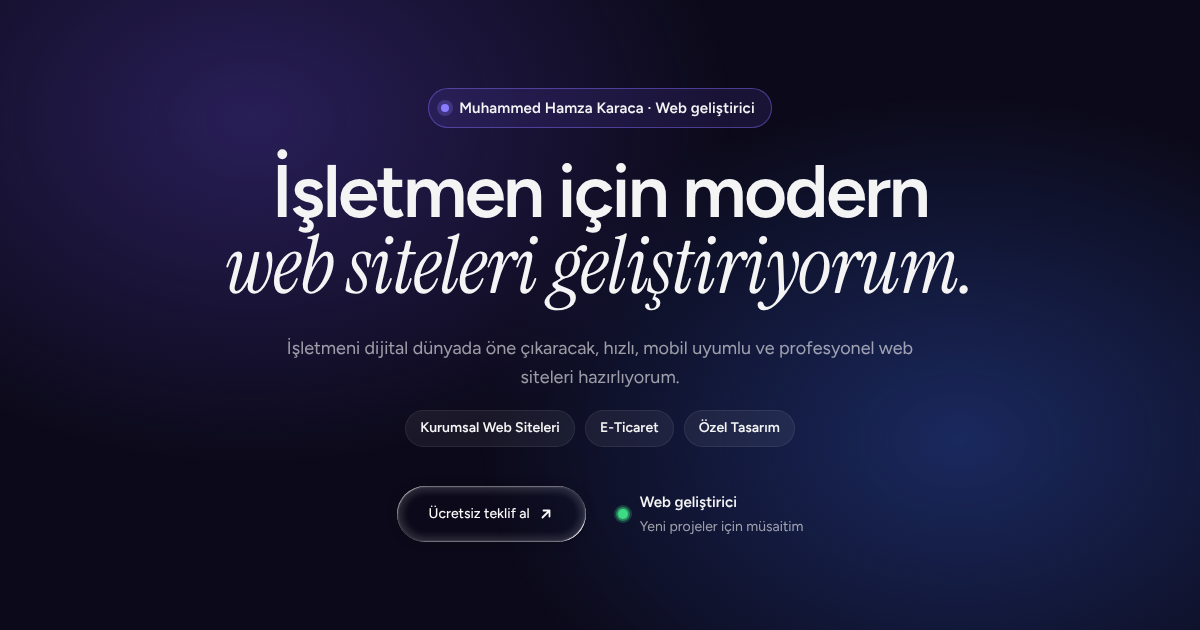
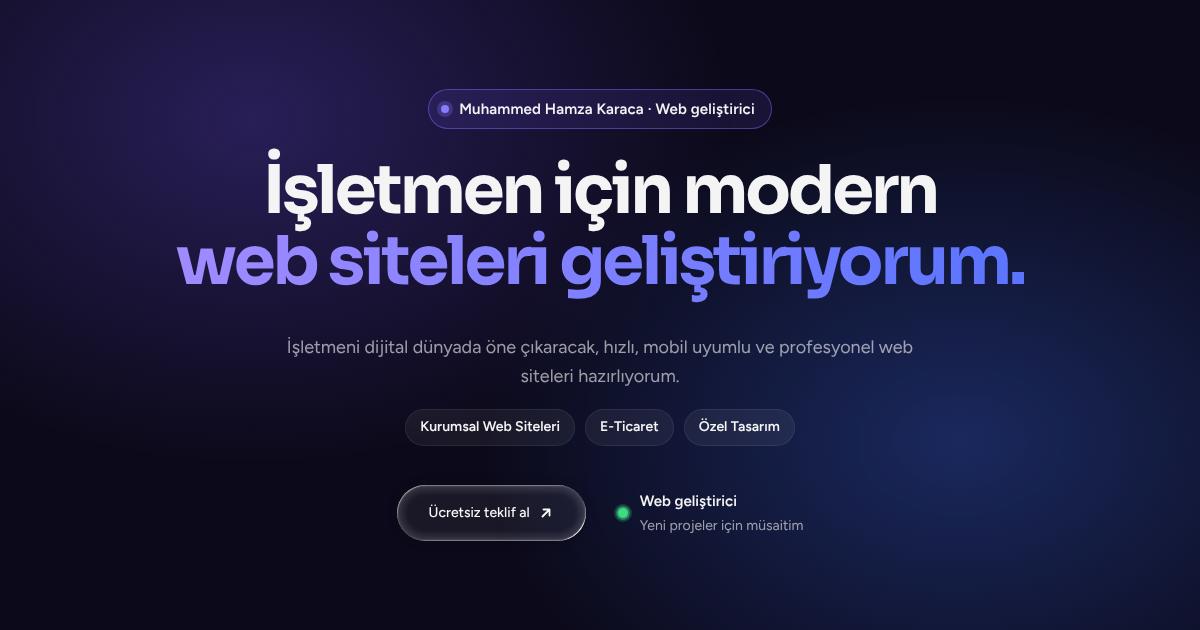
Giriş başlığı Sora yazı tipiyle, ikinci satır mor-mavi; paylaşım görseli ve proje kapağı yenilendi
Claude-Session: https://claude.ai/code/session_015cD98G2LMLwpiJcFaBPEqb

diff --git a/css/style.css b/css/style.css
@@ -39,6 +39,7 @@
   --font-body: "Figtree", system-ui, -apple-system, "Segoe UI", sans-serif;
   --font-mono: "Martian Mono", ui-monospace, "SFMono-Regular", Menlo, monospace;
   --font-serif: "Instrument Serif", "Iowan Old Style", Georgia, serif;
+  --font-display: "Sora", "Figtree", system-ui, sans-serif;
 
   /* Giriş bölümü ve menü (her iki temada da koyu) */
   --spot-bg: #0c0a1a;
@@ -633,8 +634,28 @@ body::before {
 }
 .spot__line { display: block; }
 /* Başlık ad yerine bir cümleyse biraz küçülür, iki satıra sığar */
-.spot__title--cumle { font-size: clamp(2.15rem, 6.2vw, 5.25rem); letter-spacing: -0.035em; }
-.spot__title--cumle .spot__line--serif { font-size: 1.08em; }
+.spot__title--cumle {
+  font-family: var(--font-display);
+  font-size: clamp(2rem, 5.6vw, 4.75rem);
+  font-weight: 700;
+  line-height: 1.06;
+  letter-spacing: -0.045em;
+}
+/* ikinci satır: aynı yazı tipi, mor-mavi renk geçişi */
+.spot__title--cumle .spot__line--serif {
+  padding-bottom: .08em; /* ş, ğ, y gibi harflerin kuyruğu kesilmesin */
+  font-family: inherit;
+  font-style: normal;
+  font-weight: inherit;
+  font-size: 1em;
+  line-height: inherit;
+  letter-spacing: inherit;
+  background: linear-gradient(90deg, #a08bff, #5b74ff);
+  -webkit-background-clip: text;
+  background-clip: text;
+  color: transparent;
+}
+:root[data-theme="light"] .spot__title--cumle .spot__line--serif { background-image: linear-gradient(90deg, #6a4cff, #3346d6); }
 
 /* Girişteki hizmet etiketleri */
 .spot__tags {

diff --git a/css/fonts.css b/css/fonts.css
@@ -26,3 +26,9 @@
   src: url(../assets/fonts/instrument-serif-latin-ext-400-italic.woff2) format("woff2"); unicode-range: U+0100-02BA,U+02BD-02C5,U+02C7-02CC,U+02CE-02D7,U+02DD-02FF,U+0304,U+0308,U+0329,U+1D00-1DBF,U+1E00-1E9F,U+1EF2-1EFF,U+2020,U+20A0-20AB,U+20AD-20C0,U+2113,U+2C60-2C7F,U+A720-A7FF; }
 @font-face { font-family: "Instrument Serif"; font-style: italic; font-weight: 400; font-display: swap;
   src: url(../assets/fonts/instrument-serif-latin-400-italic.woff2) format("woff2"); unicode-range: U+0000-00FF,U+0131,U+0152-0153,U+02BB-02BC,U+02C6,U+02DA,U+02DC,U+0304,U+0308,U+0329,U+2000-206F,U+20AC,U+2122,U+2191,U+2193,U+2212,U+2215,U+FEFF,U+FFFD; }
+
+/* Sora: giriş bölümündeki büyük başlık */
+@font-face { font-family: "Sora"; font-style: normal; font-weight: 100 800; font-display: swap;
+  src: url(../assets/fonts/sora-latin-ext-wght-normal.woff2) format("woff2"); unicode-range: U+0100-02BA,U+02BD-02C5,U+02C7-02CC,U+02CE-02D7,U+02DD-02FF,U+0304,U+0308,U+0329,U+1D00-1DBF,U+1E00-1E9F,U+1EF2-1EFF,U+2020,U+20A0-20AB,U+20AD-20C0,U+2113,U+2C60-2C7F,U+A720-A7FF; }
+@font-face { font-family: "Sora"; font-style: normal; font-weight: 100 800; font-display: swap;
+  src: url(../assets/fonts/sora-latin-wght-normal.woff2) format("woff2"); unicode-range: U+0000-00FF,U+0131,U+0152-0153,U+02BB-02BC,U+02C6,U+02DA,U+02DC,U+0304,U+0308,U+0329,U+2000-206F,U+20AC,U+2122,U+2191,U+2193,U+2212,U+2215,U+FEFF,U+FFFD; }

diff --git a/index.html b/index.html
@@ -34,7 +34,7 @@
   <meta property="og:type" content="website">
   <meta property="og:site_name" content="{{ g.site_adi | default: tam_ad | escape }}">
   <meta property="og:url" content="{{ '/' | absolute_url }}">
-  <meta property="og:image" content="{{ '/assets/og.png' | absolute_url }}?v=3">
+  <meta property="og:image" content="{{ '/assets/og.png' | absolute_url }}?v=4">
   <meta property="og:image:width" content="1200">
   <meta property="og:image:height" content="630">
   <meta property="og:locale" content="tr_TR">
@@ -49,6 +49,7 @@
 
   <!-- Yazı tipleri sitenin kendi sunucusundan (Google Fonts yok) -->
   <link rel="preload" href="{{ '/assets/fonts/figtree-latin-wght-normal.woff2' | relative_url }}" as="font" type="font/woff2" crossorigin>
+  <link rel="preload" href="{{ '/assets/fonts/sora-latin-wght-normal.woff2' | relative_url }}" as="font" type="font/woff2" crossorigin>
   <link rel="stylesheet" href="{{ '/css/fonts.css' | relative_url }}?v={{ site.time | date: '%s' }}">
   <link rel="stylesheet" href="css/style.css?v={{ site.time | date: '%s' }}">
 
